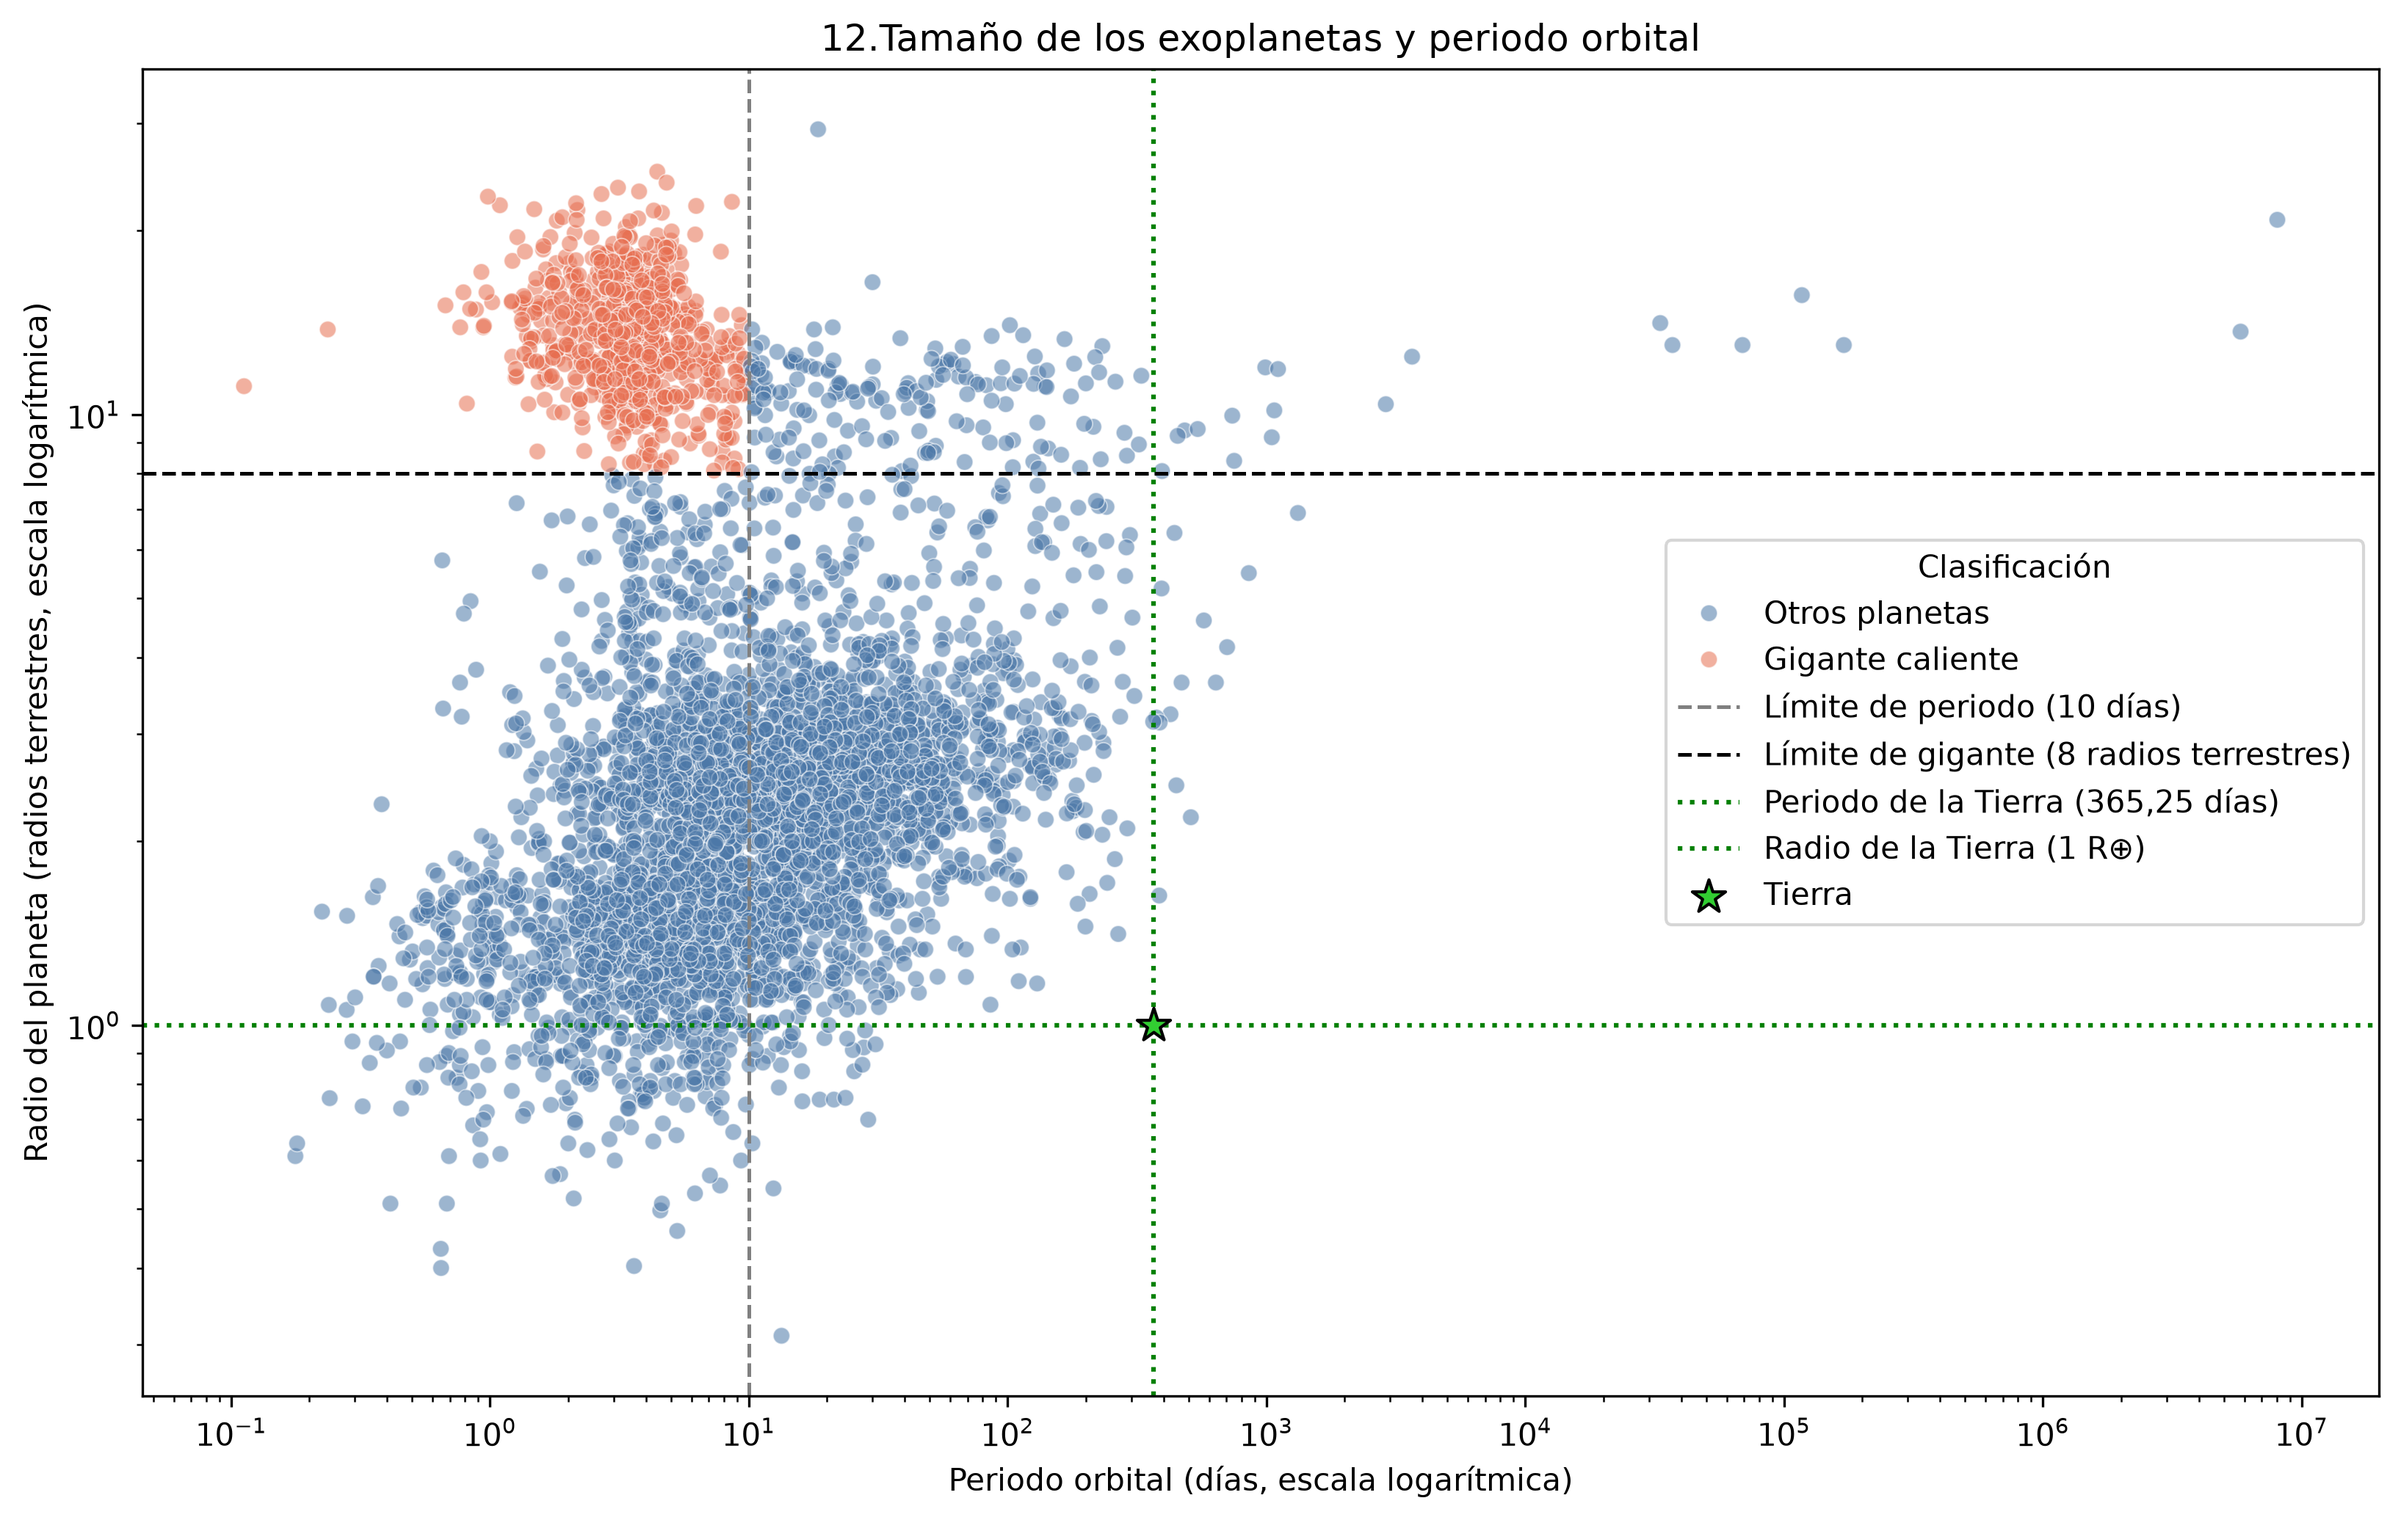
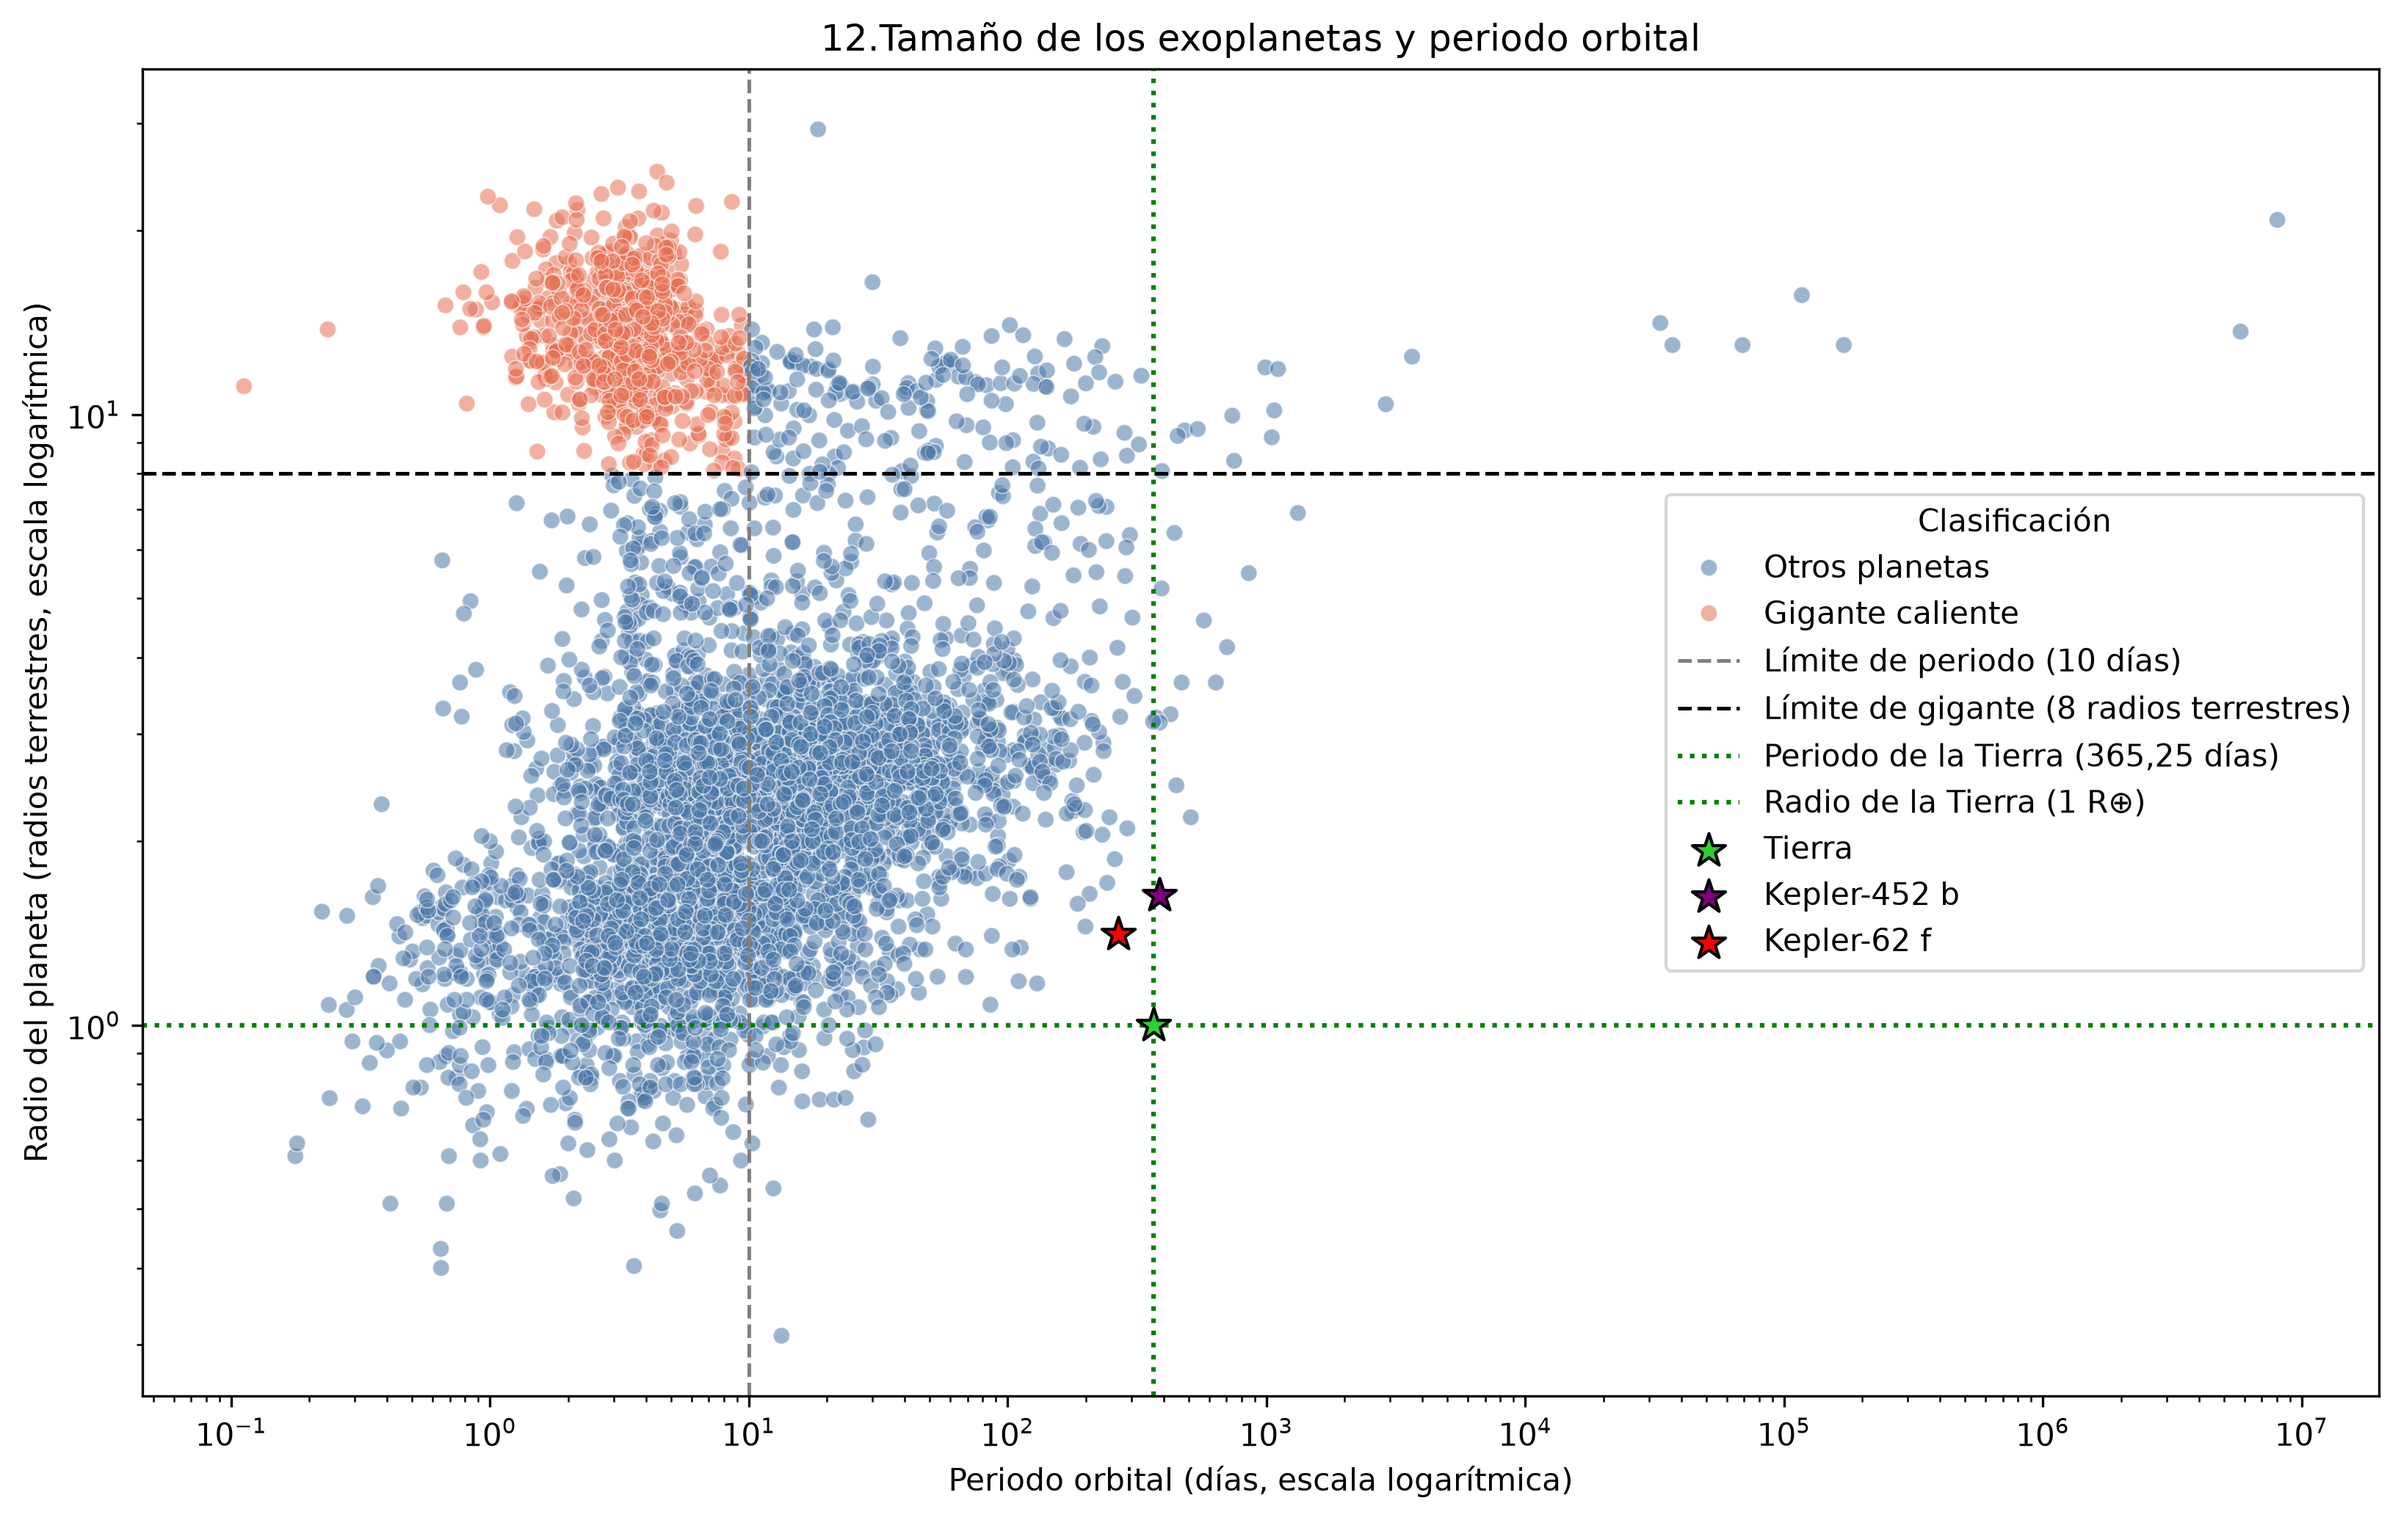
V0 + planetas +gitignore

Changed region(s): [[0.6862, 0.309, 0.967, 0.649], [0.4679, 0.5872, 0.4991, 0.6181]]

diff --git a/src/calculos_visualizaciones/calculo_visualizaciones.py b/src/calculos_visualizaciones/calculo_visualizaciones.py
@@ -13,6 +13,42 @@ CSV_FILE = CLEAN / "dataset_merged.csv"
 
 df = pd.read_csv(CSV_FILE)
 
+# 0. Resumen general del dataset
+
+planetas = df.drop_duplicates(subset=["hostname", "pl_name"]).copy()
+sistemas = planetas.drop_duplicates(subset="hostname").copy()
+numero_sistemas = sistemas["hostname"].nunique()
+numero_estrellas = int(pd.to_numeric(sistemas["sy_snum"],errors="coerce").sum())
+numero_planetas = len(planetas)
+
+resumen_general = pd.Series({"Sistemas estelares": numero_sistemas,"Estrellas": numero_estrellas,
+    "Planetas": numero_planetas})
+
+colores = ["#4C78A8", "#F6D55C", "#2A9D8F"]
+
+plt.figure(figsize=(9, 6))
+
+ax = sns.barplot(x=resumen_general.index,y=resumen_general.values,hue=resumen_general.index,palette=colores,legend=False)
+
+for posicion, valor in enumerate(resumen_general.values):
+    plt.text(
+        posicion,
+        valor + 80,
+        f"{valor:,}".replace(",", "."),
+        ha="center",
+        fontsize=12,
+        fontweight="bold"
+    )
+
+plt.ylim(0, resumen_general.max() * 1.12)
+plt.title("0. Resumen general de los sistemas exoplanetarios")
+plt.xlabel("")
+plt.ylabel("Número total")
+plt.tight_layout()
+
+plt.savefig(ROOT / "imagenes" / "0. Resumen general del dataset.png",dpi=300,bbox_inches="tight")
+plt.show()
+
 # 1. Cuantos planetas hay por sistema, frente a 8 en el Sistema Solar
 
 planetas = df.drop_duplicates(subset=["hostname", "pl_name"]).copy()
@@ -340,6 +376,17 @@ plt.scatter(365.25,1,color="limegreen",edgecolor="black",s=130,marker="*",zorder
 plt.title("12.Tamaño de los exoplanetas y periodo orbital")
 plt.xlabel("Periodo orbital (días, escala logarítmica)")
 plt.ylabel("Radio del planeta (radios terrestres, escala logarítmica)")
+
+kepler_452b = df.loc[df["pl_name"] == "Kepler-452 b"].iloc[0]
+
+plt.scatter(kepler_452b["pl_orbper_y"],kepler_452b["pl_rade_y"],color="purple",edgecolor="black",
+    s=130,marker="*",zorder=10,label="Kepler-452 b")
+
+kepler_62f = df.loc[df["pl_name"] == "Kepler-62 f"].iloc[0]
+
+plt.scatter(kepler_62f["pl_orbper_y"],kepler_62f["pl_rade_y"],color="red",edgecolor="black",
+    s=130,marker="*",zorder=11,label="Kepler-62 f")
+
 plt.legend(title="Clasificación")
 plt.tight_layout()
 plt.savefig(ROOT / "imagenes" / "12.Gráfico de dispersión, tamaño y periodo orbital de los planetas.png",dpi=300,bbox_inches="tight")
